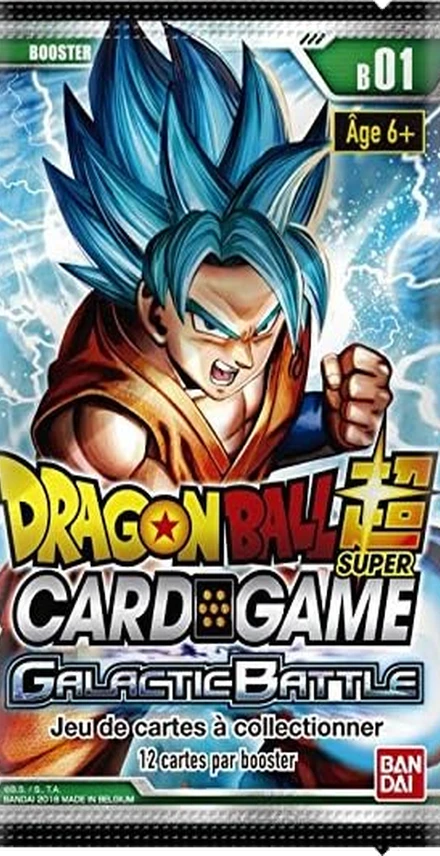
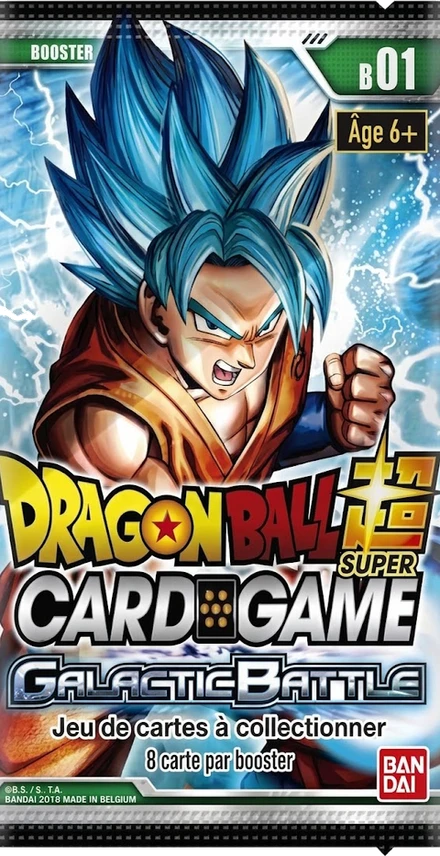
Booster Dragon Ball : 8 cartes (5 communes, 1 rare, 1 rare/holo, 1 holo) + nouveaux visuels
SQL : sql/2026-11-06_booster_db_8.sql

Claude-Session: https://claude.ai/code/session_01Cs3xDsZd7Naejto1Ny4ucY

diff --git a/lib/guide.dart b/lib/guide.dart
@@ -199,8 +199,8 @@ List<_Section> _sections() {
       _b(t('Boosters spéciaux en pixels : étoile 15, console spéciale 25, or 40, Dessins animés 70 (5 cartes Dessins animés), Pokémon 100 (5 cartes Pokémon).', 'Special boosters for pixels: star 15, special console 25, gold 40, Cartoons 70 (5 cartoon cards), Pokémon 100 (5 Pokémon cards).')),
       _b(t('Série Dessins animés : 80 pochettes des années 80/90, très très rares dans les paquets (≈ ${livePct('da')} par carte), les 13 plus cultes sont toujours brillantes. Onglet « Animés » de la Collection.',
           'Cartoons set: 80 covers from the 80s/90s, very very rare in packs (≈ ${livePct('da')} per card), the 13 cult classics are always shiny. "Cartoons" tab in the Collection.')),
-      _b(t('Série Dragon Ball : 200 cartes du jeu de cartes français (Parts 1 à 10), rares dans les paquets (≈ ${livePct('db')} par carte). Booster Dragon Ball à ${kPackPrice['dragonball']} pièces : 12 cartes différentes (8 communes, 3 rares, au moins une holo). Les holos sont toujours brillantes. Onglet « DBZ » de la Collection.',
-          'Dragon Ball set: 200 cards from the French card game (Parts 1 to 10), rare in packs (≈ ${livePct('db')} per card). Dragon Ball booster for ${kPackPrice['dragonball']} coins: 12 different cards (8 commons, 3 rares, at least one holo). Holos are always shiny. "DBZ" tab in the Collection.')),
+      _b(t('Série Dragon Ball : 200 cartes du jeu de cartes français (Parts 1 à 10), rares dans les paquets (≈ ${livePct('db')} par carte). Booster Dragon Ball à ${kPackPrice['dragonball']} pièces : 8 cartes différentes (5 communes, 2 rares, au moins une holo). Les holos sont toujours brillantes. Onglet « DBZ » de la Collection.',
+          'Dragon Ball set: 200 cards from the French card game (Parts 1 to 10), rare in packs (≈ ${livePct('db')} per card). Dragon Ball booster for ${kPackPrice['dragonball']} coins: 8 different cards (5 commons, 2 rares, at least one holo). Holos are always shiny. "DBZ" tab in the Collection.')),
       _b(t('Garantie : après 30 paquets sans épique ni légendaire, le suivant en contient forcément une.',
           'Pity: after 30 packs without an epic or legendary, the next one is guaranteed to have one.')),
       _p(t('Les prix peuvent baisser pendant les événements (promos affichées dans la boutique).', 'Prices can drop during events (promos shown in the shop).')),

diff --git a/lib/whats_new.dart b/lib/whats_new.dart
@@ -14,8 +14,8 @@ import 'update_check.dart';
 const _kNews = <(String, String, String)>[
   ('🐉', 'Nouvel onglet « DBZ » dans la Collection : 200 cartes Dragon Ball du jeu de cartes français (Goku, Vegeta, Gohan, Freezer, Cell et 100 autres personnages), rares dans les paquets',
       'New "DBZ" tab in the Collection: 200 Dragon Ball cards from the French card game (Goku, Vegeta, Gohan, Frieza, Cell and 100 other characters), rare in packs'),
-  ('🛒', 'Nouveau booster Dragon Ball dans la boutique : 400 pièces, 12 cartes dont au moins une holo (toujours brillante)',
-      'New Dragon Ball booster in the shop: 400 coins, 12 cards with at least one holo (always shiny)'),
+  ('🛒', 'Nouveau booster Dragon Ball dans la boutique : 400 pièces, 8 cartes dont au moins une holo (toujours brillante)',
+      'New Dragon Ball booster in the shop: 400 coins, 8 cards with at least one holo (always shiny)'),
   ('#', 'Aussi depuis la 1.0.45', 'Also since 1.0.45'),
   ('🖼', 'Cartes Dessins animés : les pochettes s\'affichent en entier (plus de titres coupés), avec un fin contour argent, ou doré pour les cultes',
       'Cartoon cards: covers now show in full (no more cut titles), with a thin silver frame, or gold for the cult classics'),

diff --git a/lib/packs.dart b/lib/packs.dart
@@ -468,7 +468,7 @@ class _PacksScreenState extends State<PacksScreen> {
                     shop('console', 'Console', 'Console', t('5 cartes de la console de ton choix', '5 cards from the system of your choice'), _pickConsole),
                     shop('mystery', t('Mystère', 'Mystery'), t('Mystère', 'Mystery'), t('3, 5 ou… 8 cartes ! Surprise à l\'ouverture', '3, 5 or… 8 cards! Surprise inside'), () => _open('mystery')),
                     shop('premium', 'Premium', 'Premium', t('5 cartes dont une rare ou mieux garantie', '5 cards, one rare or better guaranteed'), () => _open('premium')),
-                    shop('dragonball', 'Dragon Ball', 'Dragon Ball', t('12 cartes Dragon Ball dont au moins une holo', '12 Dragon Ball cards, at least one holo'), () => _open('dragonball')),
+                    shop('dragonball', 'Dragon Ball', 'Dragon Ball', t('8 cartes Dragon Ball dont au moins une holo', '8 Dragon Ball cards, at least one holo'), () => _open('dragonball')),
                   ],
                 );
               }),

diff --git a/CHANGELOG.md b/CHANGELOG.md
@@ -4,7 +4,7 @@
 _Version 1.0.46+47. Pas de cadeau de version. SQL : `sql/2026-11-06_serie_dragon_ball.sql`. Images : `db_cartes.zip` dézippé dans `D:\pixeltrade\db` (+ Caddy `handle /db/*`)._
 
 - 🐉 Série « Dragon Ball » : onglet « 🐉 DBZ » dans la Collection (`mode` 5, même grille que Pokémon), 200 cartes personnages `db_001` … `db_200` (`sys` = `saga` = `db`) du jeu « Cartes À Jouer Et À Collectionner » français (Parts 1 à 10, images de dbzcollection.fr), liste `lib/db_list.dart` (nom, numéro D-xxx, Part, rareté) ; rareté du jeu : commune → 2, rare → 3, holo → 4 toujours brillante ; fiche : Série / Numéro / Rareté ; contour argent / or comme Dessins animés. Tirage rare par `rc__saga_roll` (réglage en direct `db`, 0,15 %). Images (**non versionnées**) : `kDbBase = https://foclabroc.duckdns.org/db/` (`001.jpg` … `200.jpg`, 600×840 sans rognage).
-- 🛒 Booster « Dragon Ball » (`dragonball`) : **400 pièces** dans la boutique (`rc__pack_price`), 12 cartes db différentes (`rc__draw_db` : 8 communes, 2 rares, 1 rare ou holo à 30 %, 1 holo), aussi en récompense / cadeau admin (`packs.dragonball`, `cards.db`) ; images `assets/booster_db.webp` / `booster_db_back.webp` (dos du booster à l'ouverture, `_specialBoosterBack`), dos de carte `assets/card_back_db.jpg` (fournis par l'utilisateur).
+- 🛒 Booster « Dragon Ball » (`dragonball`) : **400 pièces** dans la boutique (`rc__pack_price`), 8 cartes db différentes (`rc__draw_db` : 5 communes, 1 rare, 1 rare ou holo à 30 %, 1 holo ; `sql/2026-11-06_booster_db_8.sql`, d'abord 12 cartes), aussi en récompense / cadeau admin (`packs.dragonball`, `cards.db`) ; images `assets/booster_db.webp` / `booster_db_back.webp` (dos du booster à l'ouverture, `_specialBoosterBack`), dos de carte `assets/card_back_db.jpg` (fournis par l'utilisateur).
 
 ## v1.0.45
 _Version 1.0.45+46. Pas de cadeau de version. Pas de SQL. Images : `dessins_animes_da_v2.zip` dézippé dans `D:\pixeltrade\da` (sous-dossier `2`)._
